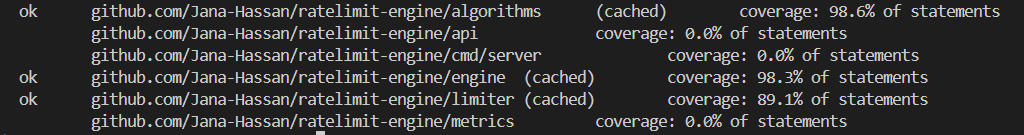
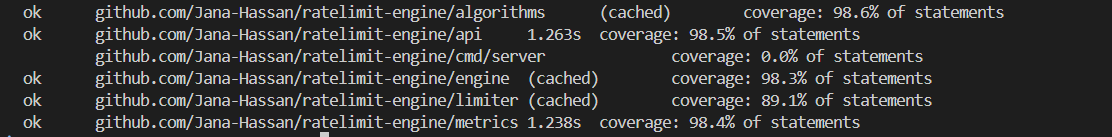
update readme after api and metrics tests

diff --git a/README.md b/README.md
@@ -186,7 +186,7 @@ go test -race ./...        # race detector
 go test -bench . ./...     # benchmarks
 ```
 
-Coverage by package: `algorithms` 98.6%, `engine` 98.3%, `limiter` 89.1%. The `api` and `metrics` packages have no tests.
+Coverage by package: `api` 98.5%, `algorithms` 98.6%, `engine` 98.3%, `limiter` 89.1%, `metrics` 98.4%.
 
 A shared contract suite runs all four algorithms through the same assertions, so a new algorithm inherits the same guarantees:
 
@@ -248,7 +248,7 @@ This exposes the API on `:8080`, Prometheus on `:9090`, and Grafana on `:3000`.
 
 ## Phase 2 and Future Work
 
-Current scope and known gaps:
+**Current scope and known gaps:**
 
 - Rate-limit state is local to one process.
 - Rules use one local JSON file not a shared configuration store.
@@ -257,7 +257,7 @@ Current scope and known gaps:
 - There are no distributed-failure tests.
 - Multiple replicas do not share counters or quotas.
 
-Phase 2 priorities:
+**Phase 2 priorities:**
 
 1. Authentication and authorization for rule management
 2. Input, rule-count, and memory bounds
